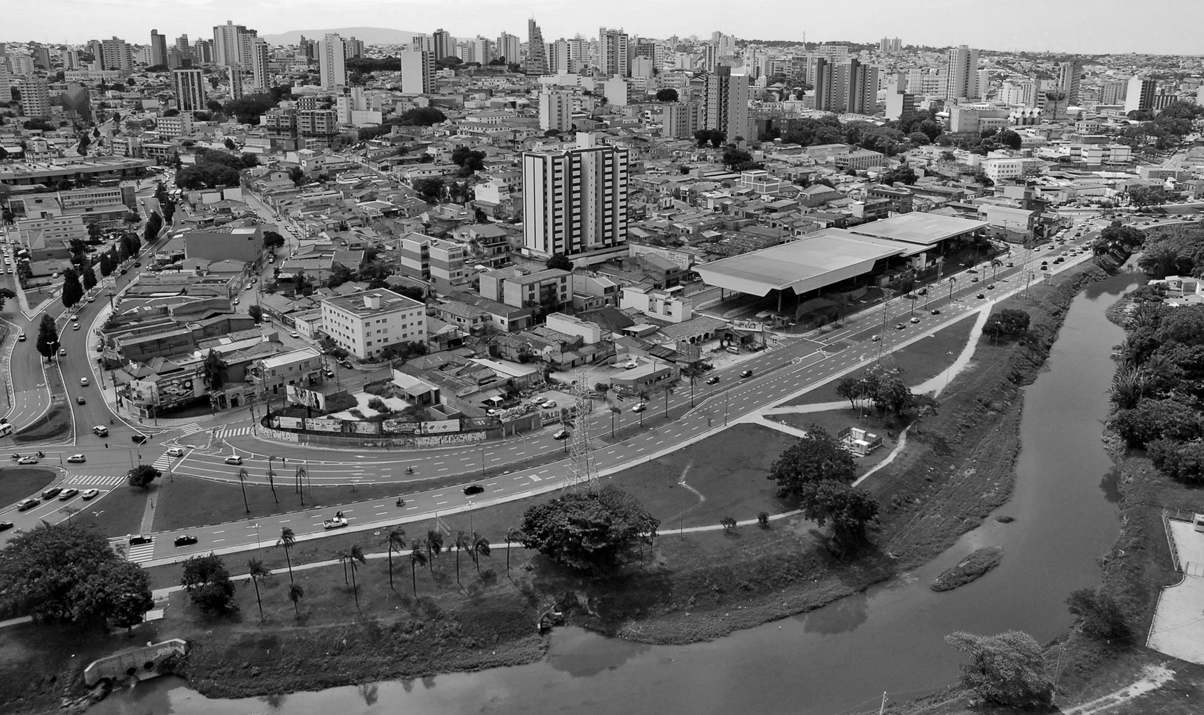
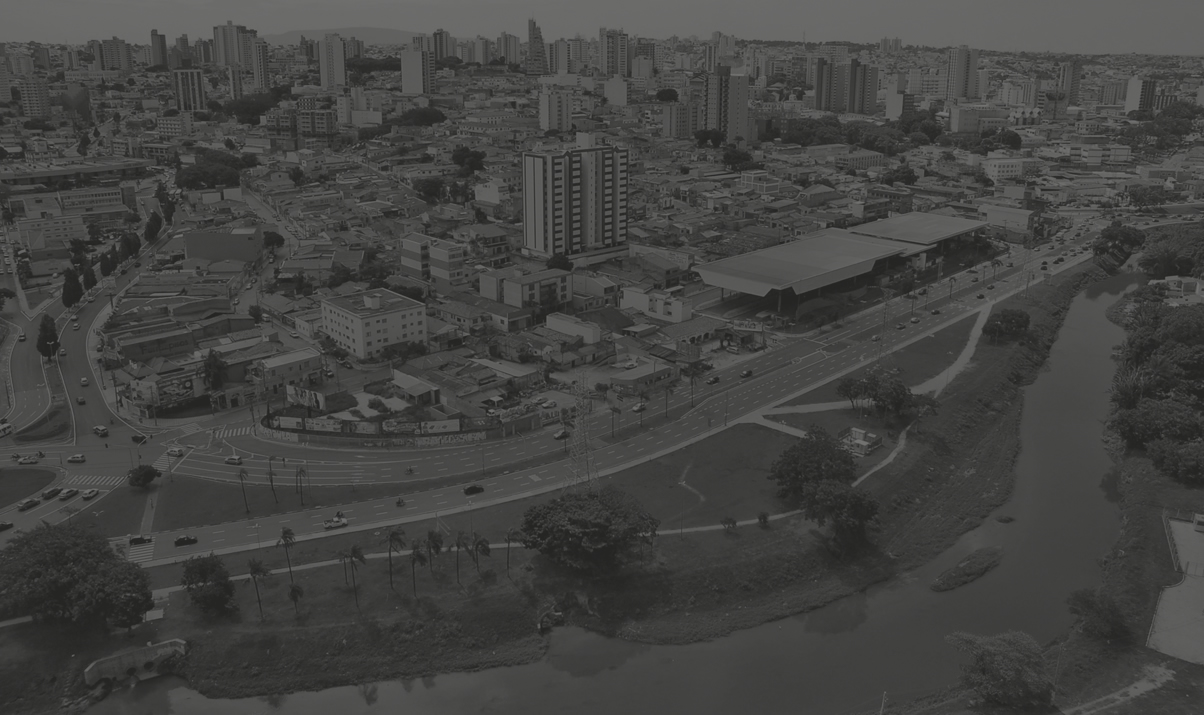
Update 2015-11-03T22:10:04.251Z

diff --git a/assets/css/style.css b/assets/css/style.css
@@ -1,1 +1,1 @@
-a.button,body{color:#343433}a.button,section{box-sizing:border-box}.centering,.links,.logo h1,h1,h2{text-align:center}.links a,a.button{text-decoration:none}@font-face{font-family:Neutra;font-style:normal;src:local("Neutra Text TF"),local("Neutra Text TF"),url(fonts/neutra.woff) format("woff")}@media screen and (max-width:1225px){body{font-size:14px}}@media screen and (max-width:895px){body{font-size:13px}}@media screen and (max-width:785px){body{background-size:auto!important;background-position:0 0!important}section{width:100%!important;height:auto!important}section.translucent{height:40em!important}}.logo{position:absolute;left:0;right:0;top:0;bottom:0;margin:auto}*{padding:0;margin:0}body,html{width:100%;height:100%}body{background:url(../img/gs.jpg) center center no-repeat fixed #343433;background-size:cover;font-family:Cabin,sans-serif}.logo h1,h1,h2{font-family:'Roboto Slab',sans-serif}ul{list-style:none}a.button{border:1px solid #343433;border-radius:.2em;padding:.5em 4.5em;-webkit-transition:all .2s linear;transition:all .2s linear;line-height:3.5em;cursor:pointer}a.button.big{font-size:1.7em}a.button:hover{background:#343433;color:#fff}h1,h2{font-size:2.5em;margin-bottom:1.5em}section{float:left;position:relative;width:50%;height:100%;z-index:5}section.translucent{background:rgba(52,52,51,.7);color:#fff}section.opaque{padding:2.5%}section.opaque.yellow{background:#f8dc1b;height:70%}section.opaque.yellow>div{color:#444}section.opaque.grey{background:#343433;color:#fff;height:30%}section.opaque.grey h1{color:#f8dc1b}section.opaque>div{width:80%;font-size:1.3em;margin:0 auto 2em}.links{width:100%}.links a{font-size:1.2em;color:#fff;padding:0 1em}.links a:hover{text-decoration:underline}.logo{width:21.5em;height:9em}.logo h1{color:#fff;letter-spacing:.3em;font-size:3.2em;margin-bottom:0}.logo img{width:100%;margin-bottom:2em}
+a,a:visited,header{color:#fff}a.button,header li{display:inline-block;line-height:3.5em}a.button,section{box-sizing:border-box}a,a.button,footer .links a{text-decoration:none}header{position:fixed;top:0;left:0;text-transform:uppercase;padding-top:1em;height:4.5em;width:100%;background:rgba(0,0,0,.2);z-index:1000}header .logo{height:3.5em;margin:auto}header ul{list-style:none;float:right}header li{margin:auto;width:8em;text-align:center;font-size:1.2em}.clear-fix{content:"";clear:both}*{padding:0;margin:0}body,html{width:100%;height:100%}body{font-family:Roboto,sans-serif;font-weight:500;background:url(../img/gs.jpg) center fixed;background-size:cover}a.button,h1,h2,h3{font-family:Montserrat,sans-serif;text-transform:uppercase}a{border:none}a.button{color:#1a1a1a;border:6px solid #1a1a1a;padding:.5em 4.5em;-webkit-transition:all .2s linear;transition:all .2s linear;cursor:pointer;margin:2em 0}a.button.big{font-size:1.7em}a.button:hover{background:#1a1a1a;color:#fff}h1,h2,h3{font-size:3em;color:#fff;margin-bottom:.7em}h1 span,h2 span,h3 span{background:#1a1a1a;padding:.2em}h2 span,h3 span{background:#FDC915;color:#1a1a1a}h3{font-size:1.5em}section{padding:5% 0;position:relative;overflow:hidden}@media screen and (max-width:1220px){body{font-size:12px}}@media screen and (max-width:920px){.table,footer article{width:100%!important}#link-speakers,.headline,.speakers{display:none}footer{display:block!important;height:auto!important}footer article.info{padding-bottom:1em}}@media screen and (max-width:730px){#link-list{display:none}}.generic div.text,.table .row div{display:inline-block}.table{width:80%;margin:0 auto;text-align:left}.generic,.speakers,footer .links,footer article{text-align:center}.table .row{width:100%;margin:.5em 0;padding:1em;background:#414140;color:#fff}.table .row:nth-child(even){background:#fdd548;color:#414140}.table .row div:nth-child(1){width:50%}.table .row div:nth-child(2){width:30%;margin:0 5%}.table .row div:nth-child(3){width:10%}.content{width:80%;margin:0 auto}.diamonds{width:77em;height:24.5em;position:absolute}.scene{width:100%;height:100%;padding-top:20%}.scene h1,.scene h2{margin-left:10%}.scene .diamonds{right:-10em;bottom:-15em}.generic{background:#EEBA35}.generic h1{margin-bottom:1em!important}.generic div.text{width:70%;font-size:1.4em;line-height:1.5em;margin:.5em 0}.speakers{background:rgba(0,0,0,.2)}.speakers article{display:-webkit-box;display:-webkit-flex;display:-ms-flexbox;display:flex;-webkit-justify-content:space-around;-ms-flex-pack:distribute;justify-content:space-around}.speakers .speaker img{width:20em}.speakers .speaker h3{margin-top:-.5em}.speakers div.text{display:inline-block;width:70%;font-size:1.4em;line-height:1.5em;margin:1em 0}.speakers .diamonds{left:-34em;bottom:-20em}footer{background:#1a1a1a;height:30em;display:-webkit-box;display:-webkit-flex;display:-ms-flexbox;display:flex}footer .info{-webkit-box-ordinal-group:2;-webkit-order:1;-ms-flex-order:1;order:1}footer .map{-webkit-box-ordinal-group:3;-webkit-order:2;-ms-flex-order:2;order:2}footer .logo{height:3.5em}footer img{margin:3em 0}footer img.sponsor{margin-left:2em;margin-right:2em;width:7em}footer article{width:50%;height:100%}footer iframe{width:100%;height:100%}footer .links{width:100%;color:#fff;letter-spacing:1px;font-weight:300}footer .links a{font-size:1em;padding:0 1em;color:#fff}footer .links a:hover{text-decoration:underline}

diff --git a/index.html b/index.html
@@ -1,1 +1,1 @@
-<!DOCTYPE html><html><head><title>SorocabaJS</title><meta charset=utf-8><link rel=stylesheet type=text/css href=assets/css/style.css><link href=assets/img/square.png rel=icon type=image/x-icon><link href="http://fonts.googleapis.com/css?family=Cabin|Roboto+Slab" rel=stylesheet type=text/css><meta name=viewport content="user-scalable=no, width=device-width, initial-scale=1, maximum-scale=1"></head><body><section class=translucent><div class=logo><img src=assets/img/logo.png><div class=links><a href=https://www.facebook.com/pages/Sorocabajs/903641219695048>Facebook</a> &bullet; <a href=https://github.com/sorocabajs>GitHub</a></div></div></section><section class="opaque yellow"><h1>Contribua com sua comunidade local e conheça outros malucos por JavaScript!</h1><div>O SorocabaJS é um grupo de encontro para que os entusiastas de JavaScript de Sorocaba e região possam se reunir, programar e trocar experiência desde os mais experientes aos novatos!</div><div>O SorocabaJS tem como objetivo criar espaços sociais de integração para fortalecer as comunidades locais de software.</div></section><section class="opaque grey"><h1>Próximos encontros</h1><div>A definir</div></section></body></html>
+<!DOCTYPE html><html><head><title>SorocabaJS</title><meta charset=utf-8><link rel=stylesheet type=text/css href=assets/css/style.css><link href=assets/img/square.png rel=icon type=image/x-icon><link href="https://fonts.googleapis.com/css?family=Montserrat:400,700|Roboto:400,700,500,300" rel=stylesheet type=text/css><meta name=viewport content="user-scalable=no, width=device-width, initial-scale=1, maximum-scale=1"></head><body><header><div class=content><img src=./assets/img/logo.png alt=sorocabajs class=logo><ul id=link-list><li><a href=#>home</a></li><li id=link-speakers><a href=#speakers>palestrantes</a></li><li><a href=#agenda>agenda</a></li><li><a href=#about>informações</a></li></ul></div><div class=clear-fix></div></header><section class=scene><img src=./assets/img/diamond.png alt=diamond class=diamonds><h1><span>venha participar do</span></h1><h1><span>maior evento de JS da região</span></h1><h2><span>14 de Novembro</span></h2></section><section class="generic headline"><div class=content><h1><span>One script to rule them all</span></h1><div class=text>O SorocabaJS é um grupo de encontro para que os entusiastas de JavaScript de Sorocaba e região possam se reunir, programar e trocar experiência desde os mais experientes aos novatos!</div><div class=text>O SorocabaJS tem como objetivo criar espaços sociais de integração para fortalecer as comunidades locais de software.</div></div></section><section class=speakers id=speakers><img src=./assets/img/diamond.png alt=diamond class=diamonds><div class=content><h1><span>Conheça os palestrantes</span></h1><article><div class=speaker><img src=./assets/img/speakers/eduardo.jpeg alt="eduardo matos"><h3><span>Eduardo Matos</span></h3></div><div class=speaker><img src=./assets/img/speakers/simon.png alt="simon fan"><h3><span>Simon Fan</span></h3></div><div class=speaker><img src=./assets/img/speakers/vitor.jpeg alt="vitor casadei"><h3><span>Vitor Casadei</span></h3></div></article></div></section><section class=generic id=agenda><div class=content><h1><span>Agenda do evento</span></h1><div class=table><div class="row titles"><div>Sessão</div><div>Palestrante</div><div>Horário</div></div><div class=row><div>Keynote</div><div>Breno Freitas</div><div>09:50</div></div><div class=row><div><i>A definir</i></div><div>Simon Fan</div><div>10:00</div></div><div class=row><div><i>A definir</i></div><div>Call 4 Paperz</div><div>11:00</div></div><div class=row><div><i>A definir</i></div><div>Call 4 Paperz</div><div>11:30</div></div><div class=row><div>Dojo NodeJS</div><div>Vitor Casadei</div><div>13:00</div></div><div class=row><div>Service Workers e o futuro das aplicações no seu browser</div><div>Eduardo Matos</div><div>14:00</div></div></div><a href=//call4paperz.com/events/ii-sorocabajs class=button>mande sua proposta</a></div></section><footer id=about><article class=map><iframe src="https://www.google.com/maps/embed?pb=!1m18!1m12!1m3!1d1084.128209045279!2d-47.44439848421494!3d-23.488655003951433!2m3!1f0!2f0!3f0!3m2!1i1024!2i768!4f13.1!3m3!1m2!1s0x0000000000000000%3A0xec89384409679343!2sUFSCar+Sorocaba+-+ETC!5e0!3m2!1spt-BR!2sbr!4v1446508528413" width=500 height=350 frameborder=0 style=border:0 allowfullscreen></iframe></article><article class=info><img src=./assets/img/logo.png alt=sorocabajs class=logo><h3><span>Nossos patrocinadores</span></h3><a href=//www.cesar.org.br><img src=./assets/img/sponsor/cesar.png alt=cesar class=sponsor> <a><a href=//worldtechmakers.com><img src=./assets/img/sponsor/wtm.png alt="world tech makers" class=sponsor></a><div class=links><a href=https://www.facebook.com/pages/Sorocabajs/903641219695048>Facebook</a> &bullet; <a href=https://github.com/sorocabajs>GitHub</a></div></a></a></article></footer></body></html>
